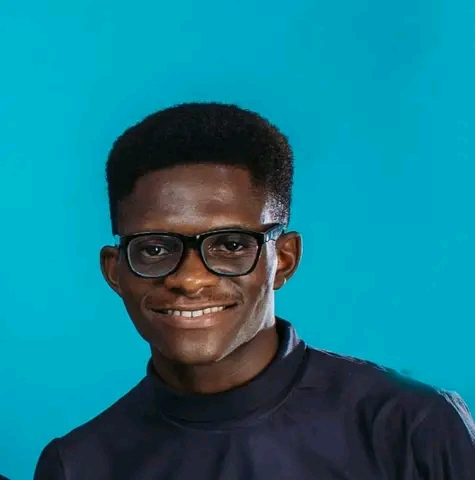
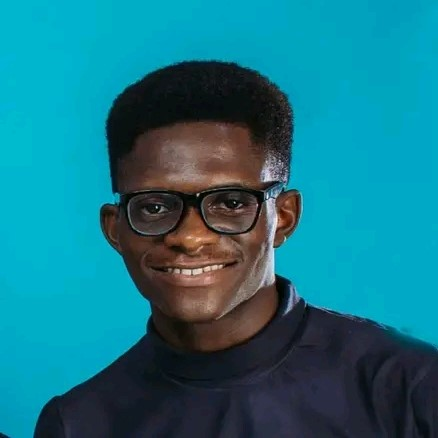
feat: updated coomponents and image assets

diff --git a/src/app/about/AboutFounders.tsx b/src/app/about/AboutFounders.tsx
@@ -4,31 +4,33 @@ import Image from 'next/image'
 export default function AboutFounders() {
   return (
     <>
-    <div className="flex flex-row">
-      <div className='relative left-24 h-[1000px] w-[5000px] right-2 my-40 rounded-md bg-slate-900 text-left ml-[200px] pl-[200px] py-[80px] pr-[50px]'>
-          <h2 className='font-bold text-3xl'>Meet our founders</h2>
-        <p><br />
-        John and Jane met on a backpacking adventure in Nepal. John, a former sheep shearer, went on the trip to get some clarity about his next adventures in life. Jane — a Peloton instructor — went on the trip to explore the landscape in Nepal. <br />
-        <br />
-        While on the trip, John and Jane realized that they had one common love — the love for hiking and the love for being outdoors. <br /><br />
-        Returning back to their home state of Oklahoma, John and Jane hatched a plan to launch a retail store centered around their passions. <br />
-        <br />
-        While John handled the sourcing of goods and customer service, Jane focused on the web + e-commerce side of the business, building this website in the best design platform on the web — Webflow! <br />
-        <br />
-        In 1989, John and Jane Doe officially launched Acme Outdoors, the premiere store for outdoor enthusiasts around the state. <br /><br />
-        To this day, John and Jane return to Nepal yearly to ensure that they never forget their roots and where they came from.
-        </p>
+      <div className="flex flex-row mx-auto my-20 relative w-[100%]">
+        <div className='relative left-[500px] h-[900px] w-[50%] rounded-md bg-slate-900 py-[80px]'>
+        <aside className="relative text-white p-0 m-0 left-44 w-[60%]">
+          <h2 className='font-bold text-3xl text-left'>Meet our founders</h2>
+          <p><br />
+          John and Jane met on a backpacking adventure in Nepal. John, a former sheep shearer, went on the trip to get some clarity about his next adventures in life. Jane — a Peloton instructor — went on the trip to explore the landscape in Nepal. <br />
+          <br />
+          While on the trip, John and Jane realized that they had one common love — the love for hiking and the love for being outdoors. <br /><br />
+          Returning back to their home state of Oklahoma, John and Jane hatched a plan to launch a retail store centered around their passions. <br />
+          <br />
+          While John handled the sourcing of goods and customer service, Jane focused on the web + e-commerce side of the business, building this website in the best design platform on the web — Webflow! <br />
+          <br />
+          In 1989, John and Jane Doe officially launched Acme Outdoors, the premiere store for outdoor enthusiasts around the state. <br /><br />
+          To this day, John and Jane return to Nepal yearly to ensure that they never forget their roots and where they came from.
+          </p>
+          </aside>
+        </div>
+        <div className="relative right-[650px] top-24 p-0 m-0">
+            <Image
+                src={`/images/founders.png`}
+                alt='founders'
+                width={500}
+                height={660}
+                className='rounded-md relative p-0 m-0 '
+            />
+        </div>
       </div>
-      <div className="relative right-[800px] top-[50px] my-40">
-          <Image
-              src={`/images/founders.jpg`}
-              alt='founders'
-              width={40}
-              height={80}
-              className='rounded-md relative h-[900px] w-[3000px] left-[100px]'
-          />
-      </div>
-    </div>
     </>
   )
 }

diff --git a/src/app/components/ShopOnline.tsx b/src/app/components/ShopOnline.tsx
@@ -3,30 +3,31 @@ import Image from "next/image"
 export default function ShopOnline() {
   return (
     <>
-    <div className="flex flex-row m-auto relative left-[100px]">
-      <div className='relative left-18 h-[1000px] w-[2000px] right-2 my-40 rounded-md bg-slate-900 text-left ml-[300px] pl-[200px] py-[80px] pr-[50px]'>
+    <div className="flex flex-row m-auto relative w-[100%]">
+      <div className='relative left-[500px] h-[1000px] w-[50%] rounded-md bg-slate-900 py-[80px]'>
+        <aside className="relative text-white p-0 m-0 left-44 w-[60%]">
+          <h2 className='font-bold text-3xl text-left'>Shop Online</h2><br />
+          <p>We know that after COVID-19, a lot of folks around the city and state are feeling uneasy about the future - you’re not alone.</p>  <br />
 
-        <h2 className='font-bold text-3xl'>Shop Online</h2><br />
+          <p>We are committed to making sure you enjoy gastronomic seafood experiences, and we’re going to keep doing just that - with our dedicated team.</p><br />
 
-        <p>We know that after COVID-19, a lot of folks around the city and state are feeling uneasy about the future - you’re not alone.</p>  <br />
+          <p>As long as folks like yourself support small businesses around the city, then we’ll be here — every day, making sure your orders arrive on time.</p><br />
 
-        <p>We are committed to making sure you enjoy gastronomic seafood experiences, and we’re going to keep doing just that - with our dedicated team.</p><br />
+          <p>-------</p><br />
 
-        <p>As long as folks like yourself support small businesses around the city, then we’ll be here — every day, making sure your orders arrive on time.</p><br />
+          <p>Esther & Ini-ubong Isemin</p><br />
 
-        <p>-------</p><br />
-
-        <p>Jane & John Doe</p><br />
-
-        <p>Seafood.co</p><br /><br />
+          <p>Seafood.co</p><br /><br />
+        </aside>
+        
       </div>
-      <div className="relative right-[900px] top-[50px] my-40">
+      <div className="relative right-[650px] top-24 p-0 m-0">
           <Image
-              src={`/images/houcine.jpg`}
+              src={`/images/founders.png`}
               alt='buy seafood online'
-              width={40}
-              height={80}
-              className='rounded-md relative h-[900px] w-[2000px]'
+              width={500}
+              height={660}
+              className='rounded-md relative h-[800px] p-0 m-0 w-[500px]'
           />
       </div>
     </div>

diff --git a/src/app/about/FoundersProfile.tsx b/src/app/about/FoundersProfile.tsx
@@ -5,25 +5,25 @@ const foundersProfile = [
 {
   id: 1,
   name: 'Esther Isemin',
-  image: '/images/founders.jpg',
+  image: '/images/esther.jpeg',
   statement: 'Lorem ipsum dolor sit amet, consectetur adipiscing elit. Suspendisse varius enim in eros elementum tristique. Duis cursus, mi quis viverra ornare, eros dolor interdum nulla, ut commodo diam libero vitae erat. Aenean faucibus nibh et justo cursus id rutrum lorem imperdiet. Nunc ut sem vitae risus tristique posuere.'
 },
 {
   id: 2,
   name: 'Ini-ubong Isemin',
-  image: '/images/founders.jpg',
+  image: '/images/iniubong.jpeg',
   statement: 'Lorem ipsum dolor sit amet, consectetur adipiscing elit. Suspendisse varius enim in eros elementum tristique. Duis cursus, mi quis viverra ornare, eros dolor interdum nulla, ut commodo diam libero vitae erat. Aenean faucibus nibh et justo cursus id rutrum lorem imperdiet. Nunc ut sem vitae risus tristique posuere.'
 }
 ]
 
 const foundersGrid = foundersProfile.map((grid) => (
-  <aside key={grid.id} className='mb-10'>
+  <aside key={grid.id} className='mb-10 gap-0 my-20'>
     <Image
       src={grid.image}
       alt={grid.name}
-      width={50}
-      height={50}
-      className='m-auto relative rounded-full h-[200px] w-[200px] bottom-[50px]'
+      width={200}
+      height={200}
+      className='m-auto relative rounded-full bottom-[50px]'
     />
     <div className="px-[15%]">
       <h3 className='font-bold text-center text-2xl'>{grid.name}</h3>

diff --git a/src/app/components/Footer.tsx b/src/app/components/Footer.tsx
@@ -17,15 +17,15 @@ export default function Footer() {
 
                 <div className='flex space-x-3 text-3xl'>
 
-                    <Link href='https://linkedin.com/iniubongisemin'>
+                    <Link href='https://linkedin.com/in/iniubongisemin'>
                         <BsLinkedin />
                     </Link>
 
-                    <Link href=''>
+                    <Link href='https://github.com/eugeneinie'>
                         <AiFillGithub />
                     </Link>
                     
-                    <Link href=''>
+                    <Link href='https://twitter.com/iniubongisemin'>
                         <RiTwitterXFill />
                     </Link>
                 </div>
@@ -33,7 +33,7 @@ export default function Footer() {
         <div className="text-center">
 
         <p>
-            Designed by <Link href='/' className='text-slate-900 hover:underline'>dbiTech</Link> &copy; {new Date().getFullYear()}
+            Designed by <Link href='https://designbyinie.my.canva.site/' className='text-slate-900 hover:underline'>dbiTech</Link> &copy; {new Date().getFullYear()}
         </p>
         </div>
        

diff --git a/src/app/components/BannerTwo.tsx b/src/app/components/BannerTwo.tsx
@@ -1,15 +1,16 @@
 import styles from './components.module.css'
-import Link from 'next/link'
+// import Link from 'next/link'
 
 export default function BannerTwo() {
   return (
     <section className={styles.bannerTwo}>
-      <section className='text-[#3498db] sm:w-[100%] w-4/5 sm:p-[5em] p-[3em] text-right'>
+      <section className='text-white sm:w-[100%] w-4/5 sm:p-[5em] p-[3em] text-left'>
         <h2 className='sm:text-[4em] text-6xl font-sans'>How we&apos;re serving you <br /> online and offline</h2>
         <p className='sm:text-2xl text-xl font-sans'>As an online store, we&apos;ve taken precautionary measures <br />
         to ensure the safety of all our customers and team members.</p>
-        {/* <Link href={`/`}></Link> */}
-        <button className='px-4 py-2 mt-4 rounded-md hover:bg-[#3498db] hover:text-white font-semibold bg-white text-black'>Read our whitepaper</button>
+        {/* <Link href={`/`}> */}
+          <button className='px-4 py-2 mt-4 rounded-md hover:bg-[#3498db] hover:text-white font-semibold bg-white text-black'>Read our whitepaper</button>
+        {/* </Link> */}
       </section>
     </section>
   )

diff --git a/src/app/components/Header.tsx b/src/app/components/Header.tsx
@@ -1,8 +1,8 @@
 // "use client"
 // import React, { useState } from 'react'
 import Navbar from "./Navbar";
-import { BsSunFill, BsMoon } from 'react-icons/bs'
-import LightDarkToggle from "./Light_Dark";
+// import { BsSunFill, BsMoon } from 'react-icons/bs'
+// import LightDarkToggle from "./Light_Dark";
 
 export default function Header() {
   // const [BsSunFill, BsMoon] = useState(true);
@@ -16,11 +16,11 @@ export default function Header() {
       <div className="flex items-center justify-center gap-x-3 bg-black h-[80px] text-white"> 
       {/* space-x-2  */}
         <div>
-        <BsSunFill /> <BsMoon /> 
+        {/* <BsSunFill /> <BsMoon />  */}
         {/* <LightDarkToggle/>  */}
         </div>        
         <button className="bg-[#3498db] rounded-2xl py-1 px-4">Announcement</button>
-        <p>How we&apos;re responding to COVID-19</p>
+        <p>How we&apos;re making a difference</p>
       </div>
         <Navbar />                  
     </header>

diff --git a/src/app/components/category.module.css b/src/app/components/category.module.css
@@ -6,24 +6,29 @@
     display: flex;
     flex-direction: column;
     row-gap: 20px;
-    padding-right: 50px;
-    padding-left: 50px;
+    position: relative;
+    left: 164px;
+    margin: 0;
+    padding: 0;
+    /* padding-right: 50px; */
+    /* padding-left: 50px; */
 }
 
 .cat a{
     border-radius: 8px;
-    padding: 10px 0;
-    border: 2px solid #fff;
+    padding: 10px;
+    border: 2px solid #000;
     width: 200px;
     text-align: center;
 }
 
 .cat a:hover{
-    background-color: #fff;
+    background-color: #3498db;
     color: #131024;
+    /* border: hidden; */
 }
 
 .cat a:focus {
-    background-color: #fff;
+    background-color: #3498db;
     color: #fff;
 }

diff --git a/src/app/components/Seafoods.tsx b/src/app/components/Seafoods.tsx
@@ -40,7 +40,7 @@ export default function Seafoods({products}:seafoodProps) {
       
       {/* This button occurs outside the map loop in order to prevent the occurence of multiple buttons */}
         <Link href='/shop'>
-        <button className='text-center w-1/4 m-auto block bg-slate-900 text-white rounded-md p-3 mt-5'>
+        <button className='text-center w-1/4 m-auto block bg-slate-900 hover:bg-[#3498db] text-white rounded-md p-3 mt-5'>
           <span>Checkout our seafood</span>
         </button>
         </Link>

diff --git a/src/app/shop/page.tsx b/src/app/shop/page.tsx
@@ -4,7 +4,7 @@ import Image from "next/image"
 
 export default function page() {
   return (
-    <section className="w-[75%] m-auto py-8 flex flex-col gap-y-4">
+    <section className="w-[64%] relative m-0 px-0 left-[154px] py-8  flex flex-col gap-y-4">
       <aside className="grid sm:grid-cols-2 md:grid-cols-3 grid-cols-1 gap-4">
         {seafoods.map((seafood, index) => (
           <div key={index} className="text-center">

diff --git a/src/app/components/components.module.css b/src/app/components/components.module.css
@@ -7,12 +7,11 @@
 }
 
 .bannerTwo{
-    background-image: url(/images/seafood.jpg);
+    background-image: url(/images/seafood_shop.jpg);
     /* background-color: rgb(red, green, blue); */
     /* background-blend-mode: darken; */
-    background: no-repeat;
     /* background: right; */
-    background-position-x: 50%;
+    background-size: cover;
     height: 500px;
 }
 

diff --git a/src/app/globals.css b/src/app/globals.css
@@ -10,7 +10,7 @@ nav a:hover {
   @apply bg-black rounded-md
 }
 
-:root {
+/* :root {
     --foreground-rgb: 0, 0, 0;
     --background-start-rgb: 214, 219, 220;
     --background-end-rgb: 255, 255, 255;
@@ -32,4 +32,4 @@ nav a:hover {
         rgb(var(--background-end-rgb))
       )
       rgb(var(--background-start-rgb));
-  }
+  } */

diff --git a/src/app/seafood/[slug]/page.tsx b/src/app/seafood/[slug]/page.tsx
@@ -43,8 +43,7 @@ export default function Page({params}:any) {
         <p>{seafoodIndex.price}</p>
       
           <p>
-        {seafoodIndex.description}
-
+            {seafoodIndex.description}
           </p>
         
         </section>
